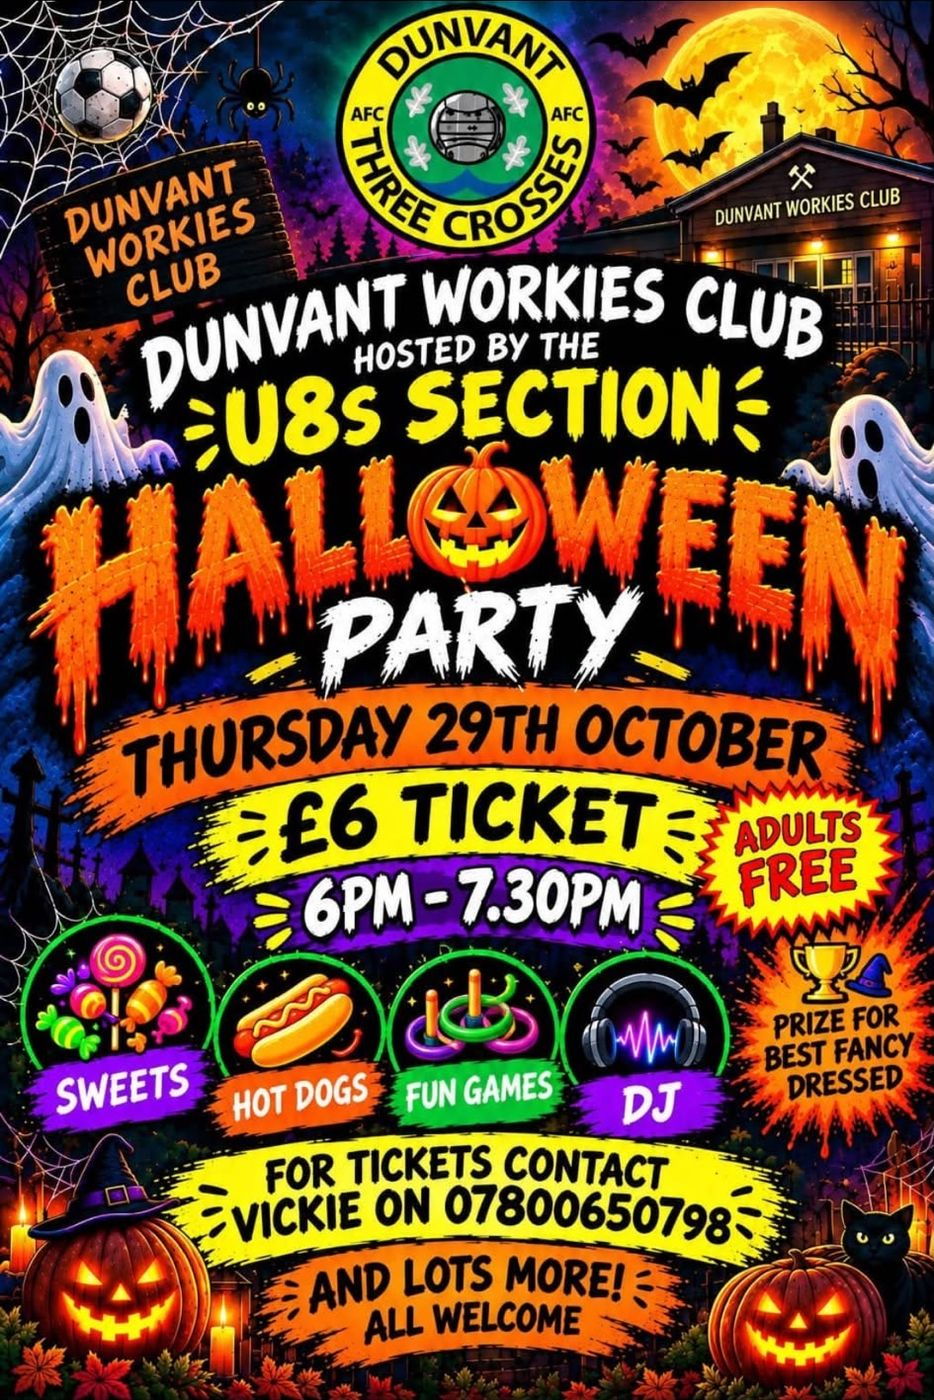
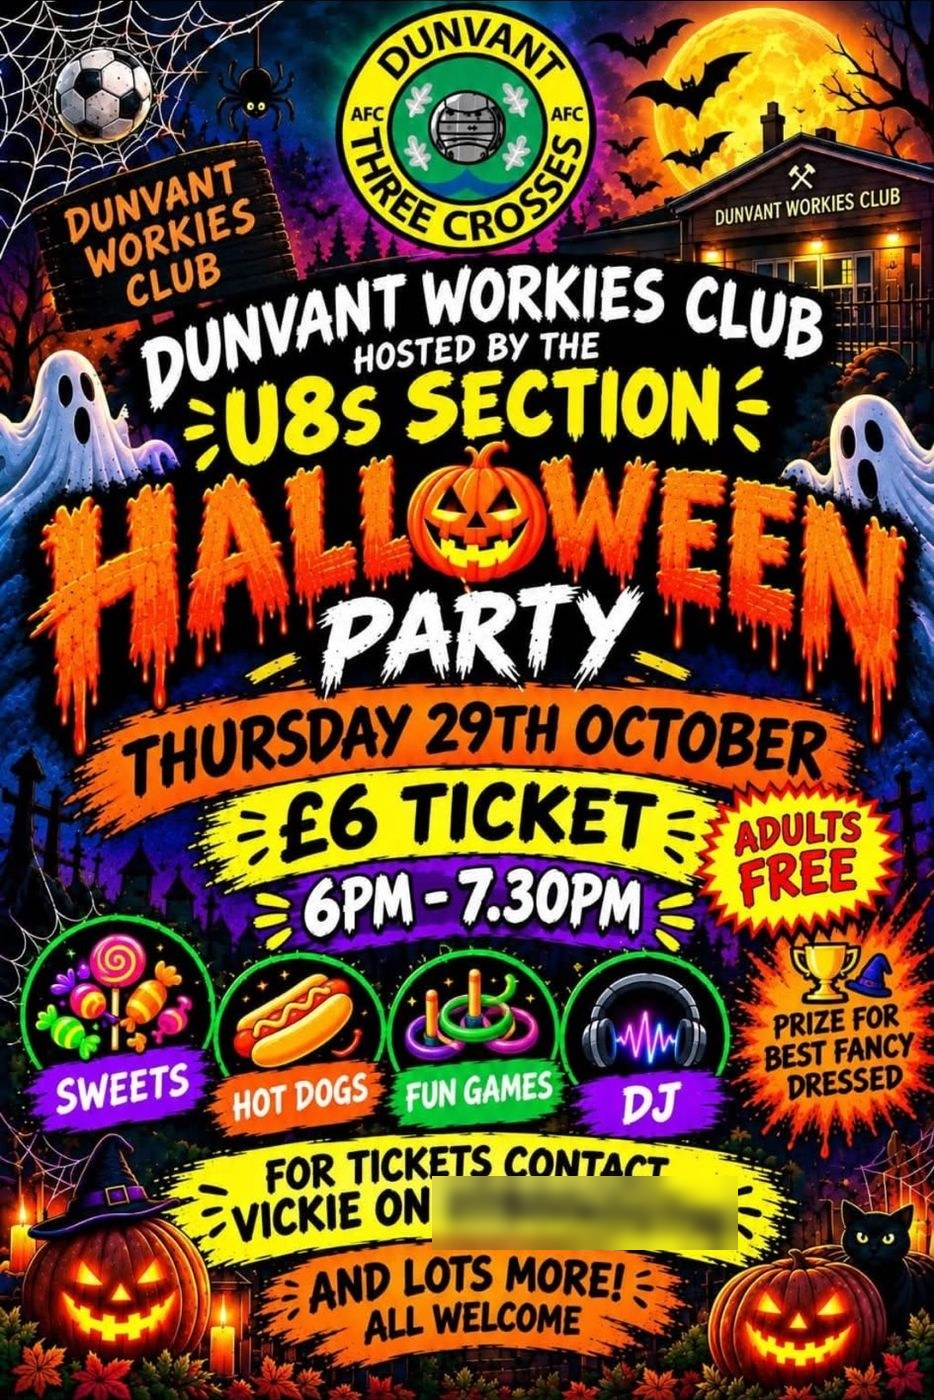
Event posters in Manage What's On; blur phone number on Halloween poster
- Manage What's On: add / change / remove a poster per event. A small copy
  sits on the event, the full-size one in galleryImages; What's On shows it
  with tap-to-enlarge. Old full-size copies are cleaned up.
- Halloween poster: personal phone number blurred; listing now says ask at
  the bar or message the club on Facebook for tickets.

Claude-Session: https://claude.ai/code/session_01Xr2y1vVyH7qqsXL9JXny96

Changed region(s): [[0.4347, 0.8293, 0.8073, 0.8907]]

diff --git a/manage-whats-on.html b/manage-whats-on.html
@@ -73,6 +73,10 @@
   .status.error{color:#c25a4d; font-weight:600;}
   a.back{display:inline-block; margin-top:24px; font-size:0.82rem; color:var(--brass); text-decoration:none; font-weight:600;}
   a.preview-link{display:inline-block; margin-bottom:20px; font-size:0.82rem; color:var(--brass); text-decoration:none; font-weight:600;}
+  .poster-input{font-size:0.84rem; padding:8px 0; border:none; background:none;}
+  .poster-preview img, .poster-current img{width:84px; height:110px; object-fit:cover; border-radius:4px; border:1px solid var(--line); display:block; margin-top:6px;}
+  .poster-current{display:flex; align-items:flex-end; gap:12px; flex-wrap:wrap;}
+  .poster-btn{font-family:'Inter', sans-serif; font-size:0.78rem; font-weight:600; background:none; border:1px solid var(--line); color:var(--muted); border-radius:6px; padding:7px 10px; cursor:pointer;}
 </style>
 </head>
 <body>
@@ -112,6 +116,12 @@
     <div class="event-row" style="grid-template-columns:1fr;">
       <div><label>Facebook link (optional)</label><input type="text" id="new-fblink" placeholder="https://facebook.com/..."></div>
     </div>
+    <div class="event-row" style="grid-template-columns:1fr;">
+      <div><label>Poster (optional)</label>
+        <input type="file" id="new-poster" accept="image/*" class="poster-input">
+        <div class="poster-preview" id="new-poster-preview"></div>
+      </div>
+    </div>
     <div class="btn-row">
       <button class="btn btn-create" onclick="addWhatsOnEvent()">Add Event</button>
       <button class="btn btn-cancel" onclick="hideAddForm()">Cancel</button>
@@ -122,11 +132,96 @@
   <a class="back" href="staff-hub.html">← Back to Staff Hub</a>
 </main>
 <script>
+  // Posters: a small copy is kept on the event (shown in the list), and the
+  // full-size one in galleryImages (opened when someone taps the poster).
+  function loadImage(file){
+    return new Promise((resolve, reject) => {
+      const reader = new FileReader();
+      reader.onerror = () => reject(new Error("Couldn't read that image."));
+      reader.onload = () => {
+        const img = new Image();
+        img.onerror = () => reject(new Error("That doesn't look like an image."));
+        img.onload = () => resolve(img);
+        img.src = reader.result;
+      };
+      reader.readAsDataURL(file);
+    });
+  }
+  function toJpeg(img, maxSide, maxBytes){
+    const scale = Math.min(1, maxSide / Math.max(img.width, img.height));
+    const c = document.createElement('canvas');
+    c.width = Math.round(img.width * scale);
+    c.height = Math.round(img.height * scale);
+    c.getContext('2d').drawImage(img, 0, 0, c.width, c.height);
+    let q = 0.82, out = c.toDataURL('image/jpeg', q);
+    while(out.length > maxBytes && q > 0.35){ q -= 0.08; out = c.toDataURL('image/jpeg', q); }
+    return out;
+  }
+  async function preparePoster(file){
+    const img = await loadImage(file);
+    return { thumb: toJpeg(img, 420, 70000), full: toJpeg(img, 1600, 800000) };
+  }
+  async function savePosterImage(full){
+    const ref = db.collection('galleryImages').doc();
+    await ref.set({ image: full, kind: 'poster' });
+    return ref.id;
+  }
+  async function dropPosterImage(fullId){
+    if(fullId){ try{ await db.collection('galleryImages').doc(fullId).delete(); } catch(e){} }
+  }
+
+  let NEW_POSTER = null;
+  document.addEventListener('change', async (e) => {
+    if(e.target.id !== 'new-poster') return;
+    const prev = document.getElementById('new-poster-preview');
+    NEW_POSTER = null; prev.innerHTML = '';
+    const f = e.target.files && e.target.files[0];
+    if(!f) return;
+    prev.textContent = 'Getting it ready…';
+    try{
+      NEW_POSTER = await preparePoster(f);
+      prev.innerHTML = `<img src="${NEW_POSTER.thumb}" alt="Poster preview">`;
+    } catch(err){
+      prev.textContent = err.message;
+    }
+  });
+
+  async function changePoster(id, input){
+    const f = input.files && input.files[0];
+    if(!f) return;
+    const item = input.closest('.event-item');
+    const label = input.parentElement;
+    label.firstChild.textContent = 'Uploading…';
+    try{
+      const p = await preparePoster(f);
+      const fullId = await savePosterImage(p.full);
+      await db.collection('whatsOnEvents').doc(id).update({ posterThumb: p.thumb, posterFullId: fullId });
+      await dropPosterImage(item.dataset.posterFullId);
+      loadEvents();
+    } catch(e){
+      alert("Couldn't upload that poster — " + e.message);
+      label.firstChild.textContent = 'Change poster';
+    }
+  }
+
+  async function removePoster(id, btn){
+    if(!confirm('Remove the poster from this event?')) return;
+    const item = btn.closest('.event-item');
+    try{
+      await db.collection('whatsOnEvents').doc(id).update({ posterThumb: '', posterFullId: '' });
+      await dropPosterImage(item.dataset.posterFullId);
+      loadEvents();
+    } catch(e){
+      alert("Couldn't remove the poster — " + e.message);
+    }
+  }
+
   function makeEventItem(id, data){
     const isPast = data.date < new Date().toISOString().slice(0, 10);
     const div = document.createElement('div');
     div.className = 'event-item' + (isPast ? ' past' : '');
     div.dataset.docId = id;
+    div.dataset.posterFullId = data.posterFullId || '';
     div.innerHTML = `
       <div class="event-row">
         <div><label>Title ${isPast ? '<span class="past-tag">Past</span>' : ''}</label><input type="text" class="f-title" value="${data.title || ''}"></div>
@@ -141,6 +236,15 @@
       </div>
       <div class="event-row" style="grid-template-columns:1fr;">
         <div><label>Facebook link</label><input type="text" class="f-fblink" value="${data.facebookLink || ''}"></div>
+      </div>
+      <div class="event-row" style="grid-template-columns:1fr;">
+        <div><label>Poster</label>
+          <div class="poster-current">
+            ${data.posterThumb ? `<img src="${data.posterThumb}" alt="Poster">` : '<span style="font-size:0.82rem; color:var(--muted);">No poster yet.</span>'}
+            <label class="poster-btn">${data.posterThumb ? 'Change poster' : '+ Add poster'}<input type="file" accept="image/*" style="display:none;" onchange="changePoster('${id}', this)"></label>
+            ${data.posterThumb ? `<button class="poster-btn" onclick="removePoster('${id}', this)">Remove poster</button>` : ''}
+          </div>
+        </div>
       </div>
       <div class="row-actions">
         <button class="save-btn" onclick="saveEvent('${id}', this)">💾 Save Changes</button>
@@ -195,6 +299,7 @@
     if(!confirm(`Remove "${title}"? This can't be undone.`)) return;
     try{
       await db.collection('whatsOnEvents').doc(id).delete();
+      await dropPosterImage(item.dataset.posterFullId);
       item.remove();
     } catch(e){
       alert("Couldn't remove it — " + e.message);
@@ -208,6 +313,9 @@
   function hideAddForm(){
     document.getElementById('add-card').classList.add('hidden');
     ['new-title','new-date','new-time','new-emoji','new-desc','new-fblink'].forEach(id => document.getElementById(id).value = '');
+    document.getElementById('new-poster').value = '';
+    document.getElementById('new-poster-preview').innerHTML = '';
+    NEW_POSTER = null;
     document.getElementById('create-status').textContent = '';
   }
 
@@ -224,7 +332,13 @@
     statusEl.textContent = 'Adding…';
     statusEl.className = 'status';
     try{
+      let poster = {};
+      if(NEW_POSTER){
+        statusEl.textContent = 'Uploading the poster…';
+        poster = { posterThumb: NEW_POSTER.thumb, posterFullId: await savePosterImage(NEW_POSTER.full) };
+      }
       await db.collection('whatsOnEvents').add({
+        ...poster,
         title,
         date,
         time: document.getElementById('new-time').value.trim(),

diff --git a/whats-on.html b/whats-on.html
@@ -176,7 +176,7 @@
   // has passed. Events added in Manage What's On are merged in alongside.
   const CLUB_EVENTS = [
     { date: '2026-10-29', emoji: '🎃', title: 'Halloween Party', time: '6pm–7:30pm',
-      description: "Hosted by Dunvant Three Crosses AFC U8s. £6 a ticket, adults free — sweets, hot dogs, games, a DJ and a prize for the best fancy dress. Ticket details on the poster.",
+      description: "Hosted by Dunvant Three Crosses AFC U8s. £6 a ticket, adults free — sweets, hot dogs, games, a DJ and a prize for the best fancy dress. For tickets, ask at the bar or message the club on Facebook.",
       poster: 'assets/posters/halloween.jpg' },
     { date: '2026-11-14', emoji: '🕺', title: 'Daytime Disco for Grownups', time: '2pm–6pm',
       description: "Floor fillers from the 60s, 70s and 80s with DJ Jules. Tickets £8.",
@@ -211,6 +211,7 @@
     if(data.time) metaParts.push(data.time);
     if(data.description) metaParts.push(data.description);
 
+    const posterSrc = data.poster || data.posterThumb || '';
     return `
       <div class="event-row${soon ? ' soon' : ''}">
         <div class="event-date">
@@ -223,7 +224,7 @@
           ${data.facebookLink ? `<a class="event-fblink" href="${data.facebookLink}" target="_blank" rel="noopener">More on Facebook →</a>` : ''}
           ${badge ? `<div class="event-badge">${badge}</div>` : ''}
         </div>
-        ${data.poster ? `<a class="event-poster" href="${data.poster}" data-lightbox="events" title="${escapeHtml(data.title)}"><img src="${data.poster}" alt="${escapeHtml(data.title)} poster" loading="lazy"></a>` : '<div></div>'}
+        ${posterSrc ? `<a class="event-poster" href="${posterSrc}" data-lightbox="events"${data.posterFullId ? ` data-full-id="${data.posterFullId}"` : ''} title="${escapeHtml(data.title)}"><img src="${posterSrc}" alt="${escapeHtml(data.title)} poster" loading="lazy"></a>` : '<div></div>'}
       </div>
     `;
   }
@@ -255,6 +256,11 @@
     wrap.innerHTML = upcoming.map(renderEvent).join('');
     wrap.style.display = 'block';
   }
+  // Posters added in Manage What's On: tapping opens the full-size copy.
+  window.LIGHTBOX_FULL = async (id) => {
+    const doc = await db.collection('galleryImages').doc(id).get();
+    return doc.exists ? doc.data().image : null;
+  };
   loadEvents();
 
   const themeToggle = document.getElementById('theme-toggle');
